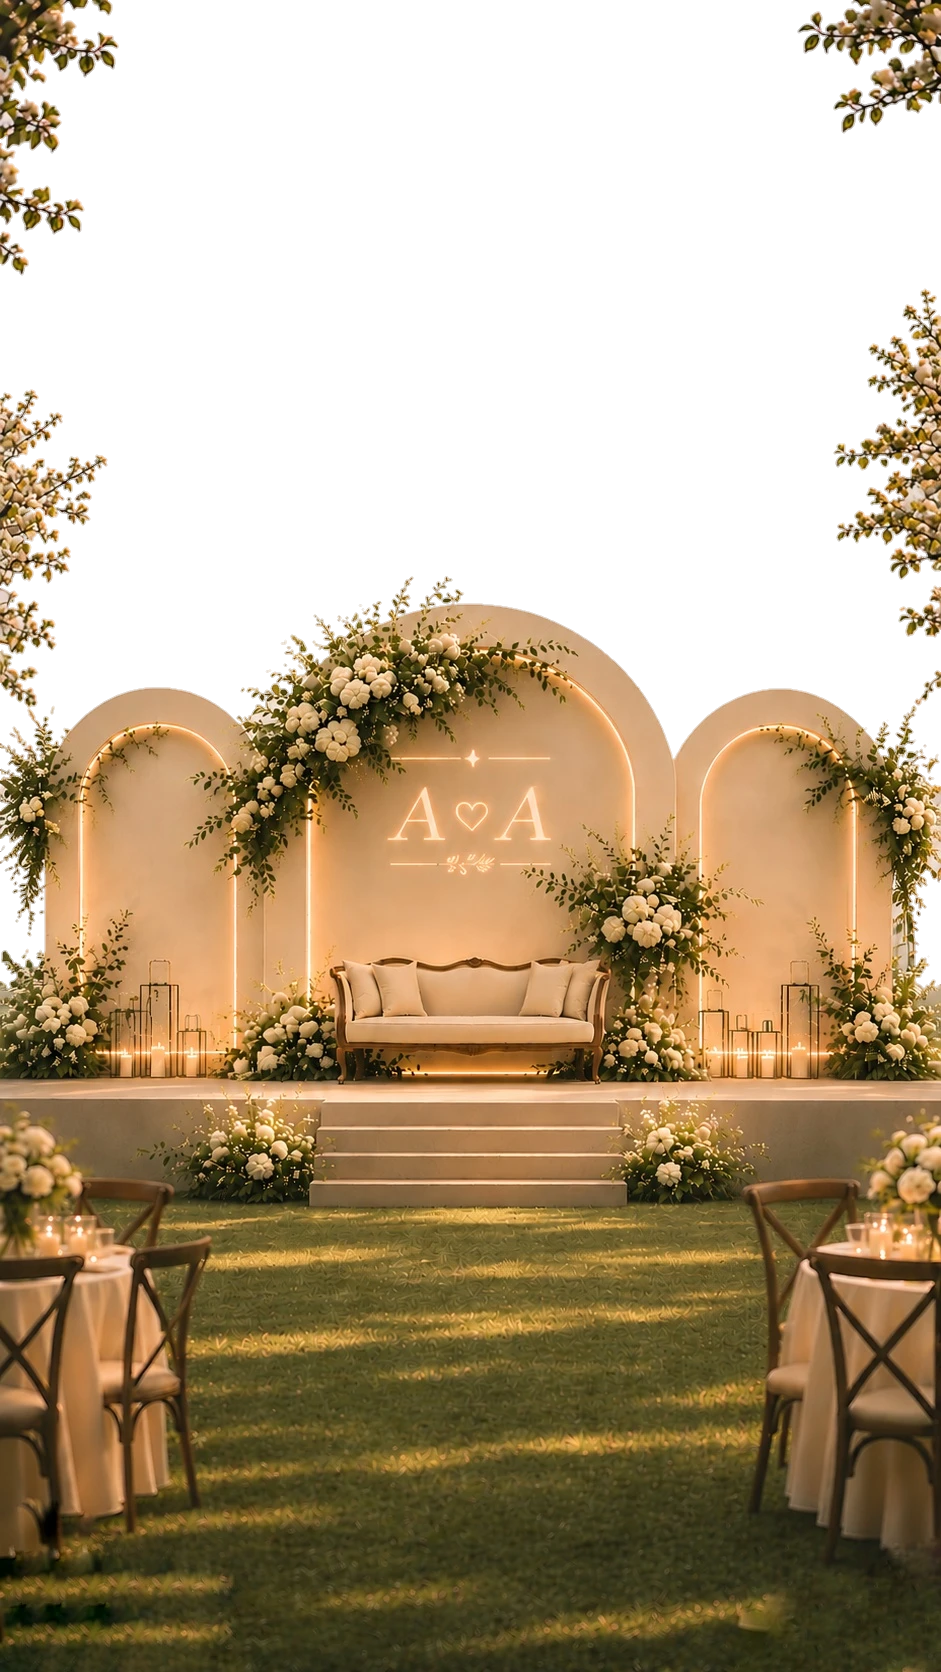
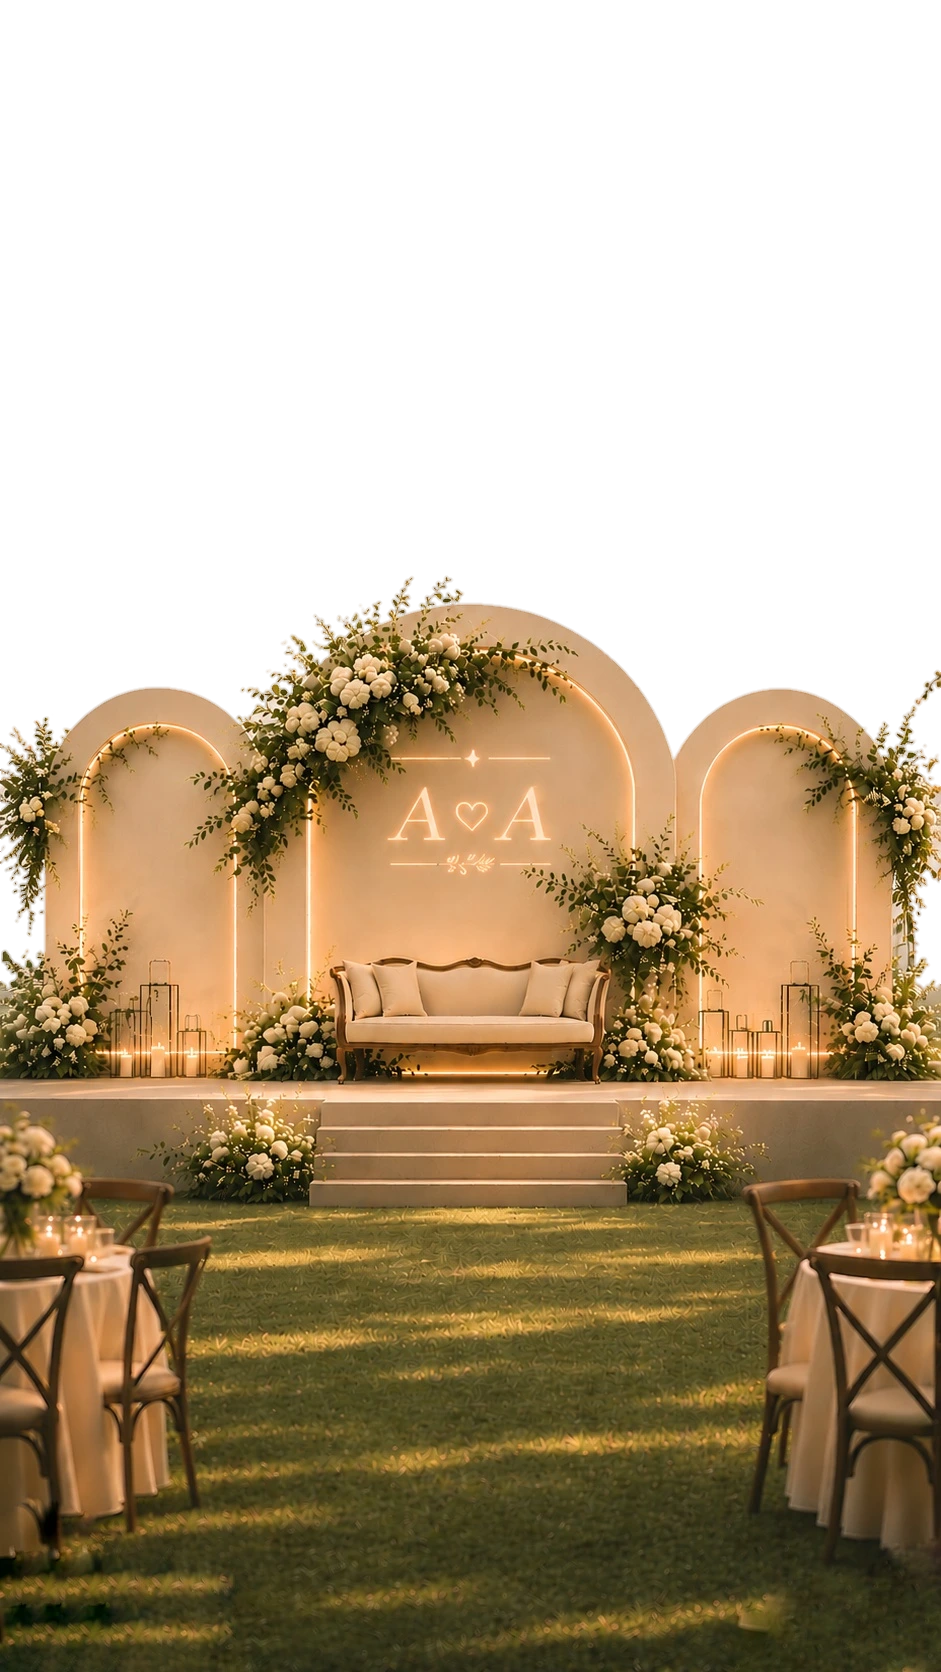
Convert replaced reception.png to reception.webp and reference directly in LandingPage

diff --git a/src/components/LandingPage.jsx b/src/components/LandingPage.jsx
@@ -909,21 +909,18 @@ export default function LandingPage({ preloadedBundle }) {
           }}
         />
 
-        {/* Full-Page Reception Image with soft top & bottom edge-blend */}
-        <picture className="absolute inset-0 w-full h-full pointer-events-none z-10">
-          <source srcSet="/reception.webp" type="image/webp" />
-          <img
-            src="/reception.png"
-            alt="Wedding Reception - Alen & Ammu"
-            onLoad={() => setIsReceptionImgLoaded(true)}
-            className="w-full h-full object-cover object-center pointer-events-none select-none"
-            style={{
-              maskImage: 'linear-gradient(to bottom, transparent 0%, black 16px, black 84%, transparent 99%)',
-              WebkitMaskImage: 'linear-gradient(to bottom, transparent 0%, black 16px, black 84%, transparent 99%)',
-            }}
-            draggable={false}
-          />
-        </picture>
+        {/* Full-Page Reception Image (converted WebP with seamless bottom blend into RSVP grass) */}
+        <img
+          src="/reception.webp"
+          alt="Wedding Reception - Alen & Ammu"
+          onLoad={() => setIsReceptionImgLoaded(true)}
+          className="absolute inset-0 w-full h-full object-cover object-center pointer-events-none select-none z-10"
+          style={{
+            maskImage: 'linear-gradient(to bottom, black 0%, black 84%, transparent 99%)',
+            WebkitMaskImage: 'linear-gradient(to bottom, black 0%, black 84%, transparent 99%)',
+          }}
+          draggable={false}
+        />
 
         {/* Reception Details Overlay: Arched champagne-gold layout matching new reference over reception.webp open sky */}
         <div
